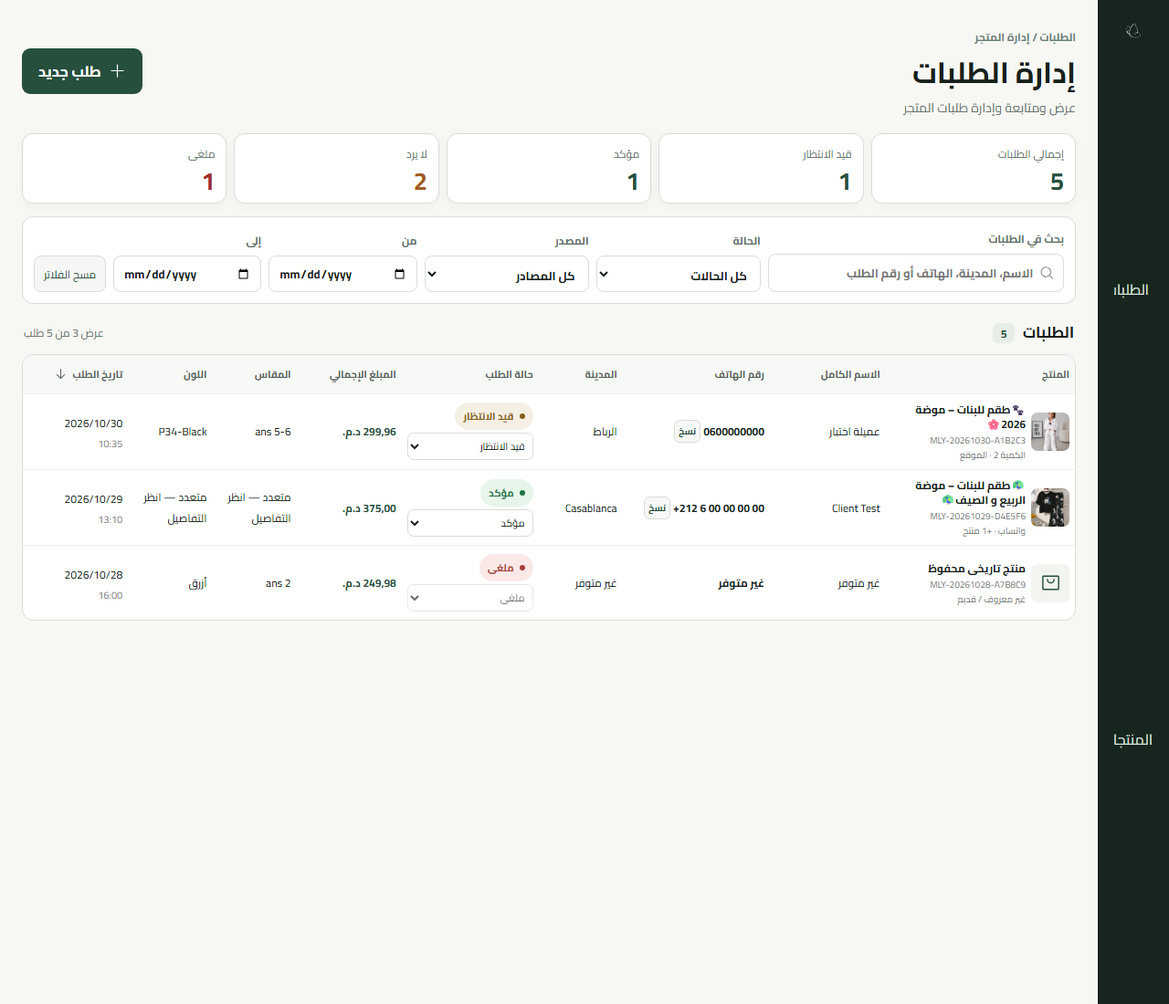
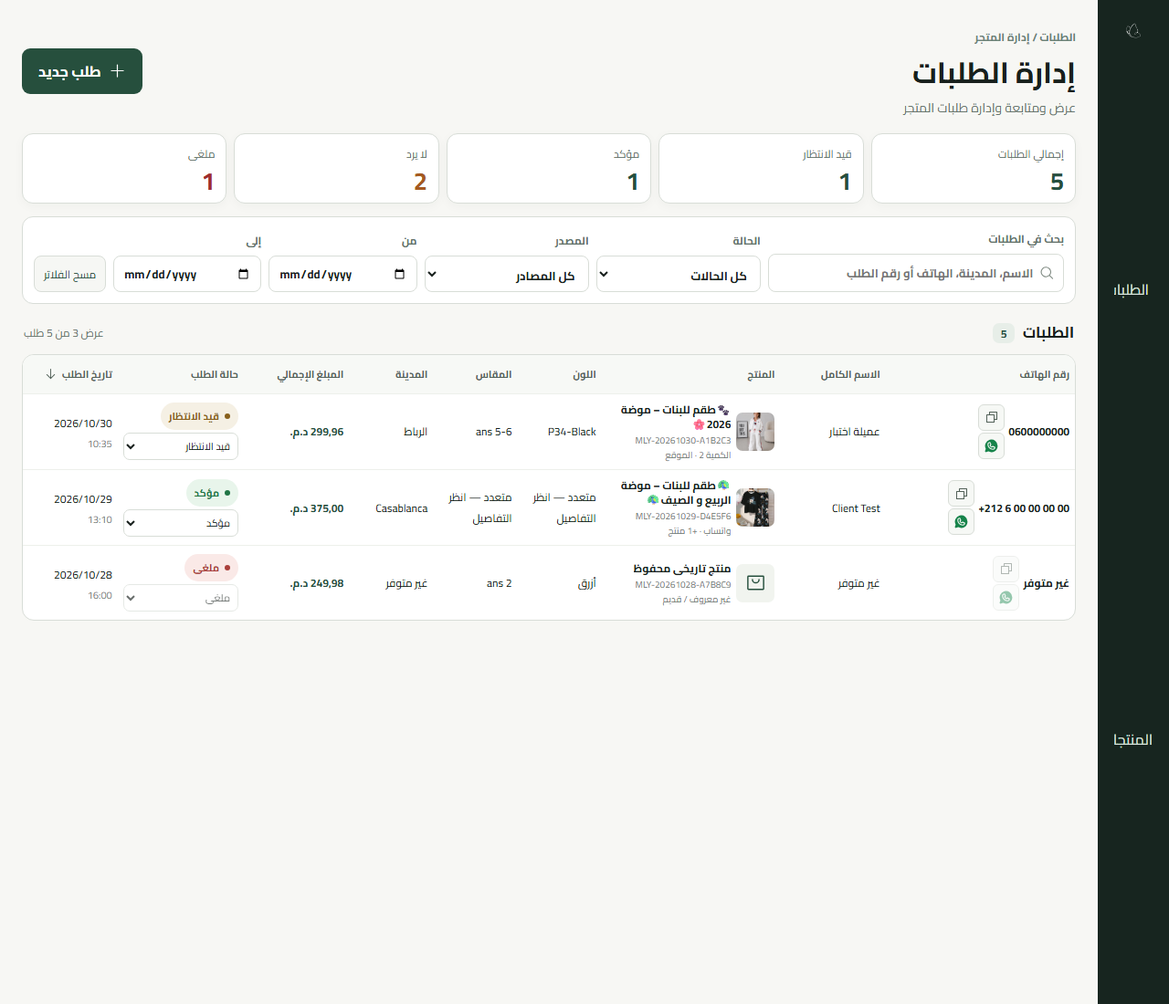
Refine Orders contact workflow and responsive information order

diff --git a/src/admin/OrdersDashboard.jsx b/src/admin/OrdersDashboard.jsx
@@ -1,5 +1,7 @@
 import { useCallback, useEffect, useRef, useState } from "react";
-import { ArrowDown, ArrowUp, MagnifyingGlass, Plus, ShoppingBag, X } from "@phosphor-icons/react";
+import { ArrowDown, ArrowUp, Copy, MagnifyingGlass, Plus, ShoppingBag, WhatsappLogo, X } from "@phosphor-icons/react";
+import storeData from "../../data/store.json";
+import { customerWhatsAppHref } from "./order-contact.js";
 import { ORDER_SOURCES, ORDER_STATUSES, ORDER_TRANSITIONS, customerField, itemSelection, lineTotal, orderListState, productName, selectionValue, sourceLabel, statusLabel } from "./order-view-model.js";
 
 const money = (value) => new Intl.NumberFormat("ar-MA", { style: "currency", currency: "MAD" }).format(Number(value || 0));
@@ -10,14 +12,24 @@ const formatDate = (value, formatter = dateTime) => value ? formatter.format(new
 
 function CopyPhoneButton({ phone }) {
   const [feedback, setFeedback] = useState("");
-  if (!phone || !String(phone).trim()) return null;
+  const available = Boolean(String(phone || "").trim());
   const copy = async (event) => {
     event.stopPropagation();
     try { await navigator.clipboard.writeText(String(phone)); setFeedback("تم النسخ"); }
     catch { setFeedback("تعذر النسخ"); }
     window.setTimeout(() => setFeedback(""), 2000);
   };
-  return <button type="button" className="owner-order-copy-phone" onClick={copy} aria-label="نسخ رقم الهاتف" title="نسخ رقم الهاتف">{feedback || "نسخ"}</button>;
+  return <><button type="button" className="owner-order-copy-phone" onClick={copy} disabled={!available} aria-label="نسخ رقم الهاتف" title="نسخ رقم الهاتف"><Copy size={16} aria-hidden="true" /></button>{feedback && <span className="owner-order-copy-feedback" role="status">{feedback}</span>}</>;
+}
+
+function PhoneContact({ order, publicProducts = [] }) {
+  const phone = order?.customer?.phone;
+  const href = customerWhatsAppHref(order, publicProducts, storeData.domain);
+  const openWhatsApp = (event) => {
+    event.stopPropagation();
+    if (href) window.open(href, "_blank", "noopener,noreferrer");
+  };
+  return <span className="owner-order-phone"><b dir="ltr" title={customerField(order, "phone")}>{customerField(order, "phone")}</b><span className="owner-order-contact-actions"><CopyPhoneButton phone={phone} /><button type="button" className="owner-order-whatsapp-phone" onClick={openWhatsApp} disabled={!href} aria-label="تأكيد الطلب مع العميل عبر واتساب" title={href ? "تأكيد الطلب مع العميل عبر واتساب" : "رقم الهاتف غير صالح لواتساب"}><WhatsappLogo size={17} weight="fill" aria-hidden="true" /></button></span></span>;
 }
 
 function OrderThumbnail({ src }) {
@@ -44,7 +56,7 @@ function OrderProductSummary({ order }) {
   return <div className="owner-order-product"><OrderThumbnail src={first?.thumbnailUrl} /><span className="owner-order-product-copy"><strong title={productName(first)}>{productName(first)}</strong><small dir="ltr">{order.order_number}</small><small>{first?.quantity > 1 ? `الكمية ${first.quantity} · ` : ""}{sourceLabel(order.source)}{order.items?.length > 1 ? ` · +${order.items.length - 1} منتج` : ""}</small></span></div>;
 }
 
-export function OrderDetail({ order, loading, error, onClose, onStatusChange, onRetrySheet, busy }) {
+export function OrderDetail({ order, loading, error, onClose, onStatusChange, onRetrySheet, busy, publicProducts = [] }) {
   const closeRef = useRef(null);
   const panelRef = useRef(null);
   useEffect(() => {
@@ -71,7 +83,7 @@ export function OrderDetail({ order, loading, error, onClose, onStatusChange, on
       {order && <div className="owner-order-drawer-body">
         <div className="owner-order-detail-top"><div><small>تاريخ الطلب</small><strong>{formatDate(order.created_at)}</strong></div><div><small>المصدر</small><strong>{sourceLabel(order.source)}</strong></div></div>
         <section className="owner-order-detail-section"><h3>الحالة</h3><div className="owner-order-detail-status"><StatusBadge status={order.status} /><StatusSelect order={order} busy={busy} onChange={onStatusChange} /></div></section>
-        <section className="owner-order-detail-section"><h3>العميل</h3><dl className="owner-order-detail-grid"><div><dt>الاسم الكامل</dt><dd>{customerField(order, "name")}</dd></div><div><dt>رقم الهاتف</dt><dd className="owner-order-phone"><b dir="ltr">{customerField(order, "phone")}</b><CopyPhoneButton phone={order.customer?.phone} /></dd></div><div><dt>المدينة</dt><dd>{customerField(order, "city")}</dd></div><div><dt>العنوان</dt><dd>{customerField(order, "address")}</dd></div></dl></section>
+        <section className="owner-order-detail-section"><h3>العميل</h3><dl className="owner-order-detail-grid"><div><dt>الاسم الكامل</dt><dd>{customerField(order, "name")}</dd></div><div><dt>رقم الهاتف</dt><dd><PhoneContact order={order} publicProducts={publicProducts} /></dd></div><div><dt>المدينة</dt><dd>{customerField(order, "city")}</dd></div><div><dt>العنوان</dt><dd>{customerField(order, "address")}</dd></div></dl></section>
         <section className="owner-order-detail-section"><h3>المنتجات ({order.items?.length || 0})</h3><div className="owner-order-detail-items">{(order.items || []).map((item, index) => <article key={index} className="owner-order-detail-item"><OrderThumbnail src={item.thumbnailUrl} /><div><strong>{productName(item)}</strong><small>المقاس: {selectionValue(item, "size") || "—"} · اللون: {selectionValue(item, "color") || "—"}</small><small>الكمية: {item.quantity} × {money(item.unitPriceMad)}</small></div><b>{money(lineTotal(item))}</b></article>)}</div>
           <div className="owner-order-totals"><div><span>المجموع الفرعي المحفوظ</span><strong>{money(order.subtotal_mad)}</strong></div><div className="final"><span>الإجمالي المحفوظ</span><strong>{money(order.total_mad)}</strong></div></div></section>
         {order.customer_note && <section className="owner-order-detail-section"><h3>ملاحظات الطلب</h3><p className="owner-order-note">{order.customer_note}</p></section>}
@@ -153,17 +165,20 @@ export function OrdersPanel({ data, reload, goTo, api }) {
       <button type="button" className="owner-order-clear" onClick={clearFilters}>مسح الفلاتر</button></div>
     <div className="owner-order-list-head"><strong>الطلبات <span>{filteredTotal.toLocaleString("ar-MA")}</span></strong><span>{loading ? "جارٍ التحديث…" : `عرض ${rows.length} من ${filteredTotal} طلب`}</span></div>
     {error && <div role="alert" className="owner-error">{error}</div>}
-    <div className="owner-orders-table" role="region" aria-label="قائمة الطلبات" tabIndex="0"><table><thead><tr><th>المنتج</th><th>الاسم الكامل</th><th>رقم الهاتف</th><th>المدينة</th><th>حالة الطلب</th><th>المبلغ الإجمالي</th><th>المقاس</th><th>اللون</th><th><button type="button" className="owner-order-sort" onClick={() => updateFilter("sort", filters.sort === "newest" ? "oldest" : "newest")} aria-label={`ترتيب حسب تاريخ الطلب: ${filters.sort === "newest" ? "الأحدث أولاً" : "الأقدم أولاً"}`}>تاريخ الطلب {filters.sort === "newest" ? <ArrowDown size={15} /> : <ArrowUp size={15} />}</button></th></tr></thead><tbody>{rows.map((order) => <tr key={order.id} tabIndex="0" aria-label={`تفاصيل الطلب ${order.order_number}`} onClick={() => openDetail(order.id)} onKeyDown={(event) => { if (event.target === event.currentTarget && ["Enter", " "].includes(event.key)) { event.preventDefault(); openDetail(order.id); } }}><td><OrderProductSummary order={order} /></td><td title={customerField(order, "name")}>{customerField(order, "name")}</td><td><div className="owner-order-phone" onClick={(event) => event.stopPropagation()}><b dir="ltr" title={customerField(order, "phone")}>{customerField(order, "phone")}</b><CopyPhoneButton phone={order.customer?.phone} /></div></td><td title={customerField(order, "city")}>{customerField(order, "city")}</td><td><div className="owner-order-status-cell" onClick={(event) => event.stopPropagation()}><StatusBadge status={order.status} /><StatusSelect order={order} busy={busyId === order.id} onChange={changeStatus} /></div></td><td className="owner-order-price">{money(order.total_mad)}</td><td title={itemSelection(order, "size")}>{itemSelection(order, "size")}</td><td title={itemSelection(order, "color")}>{itemSelection(order, "color")}</td><td><time dateTime={order.created_at}>{formatDate(order.created_at, dateOnly)}<small>{formatDate(order.created_at, timeOnly)}</small></time></td></tr>)}</tbody></table></div>
+    <div className="owner-orders-table" role="region" aria-label="قائمة الطلبات" tabIndex="0"><table><thead><tr><th>رقم الهاتف</th><th>الاسم الكامل</th><th>المنتج</th><th>اللون</th><th>المقاس</th><th>المدينة</th><th>المبلغ الإجمالي</th><th>حالة الطلب</th><th><button type="button" className="owner-order-sort" onClick={() => updateFilter("sort", filters.sort === "newest" ? "oldest" : "newest")} aria-label={`ترتيب حسب تاريخ الطلب: ${filters.sort === "newest" ? "الأحدث أولاً" : "الأقدم أولاً"}`}>تاريخ الطلب {filters.sort === "newest" ? <ArrowDown size={15} /> : <ArrowUp size={15} />}</button></th></tr></thead><tbody>{rows.map((order) => <tr key={order.id} tabIndex="0" aria-label={`تفاصيل الطلب ${order.order_number}`} onClick={() => openDetail(order.id)} onKeyDown={(event) => { if (event.target === event.currentTarget && ["Enter", " "].includes(event.key)) { event.preventDefault(); openDetail(order.id); } }}><td><span onClick={(event) => event.stopPropagation()}><PhoneContact order={order} publicProducts={data.publicProducts} /></span></td><td title={customerField(order, "name")}>{customerField(order, "name")}</td><td><OrderProductSummary order={order} /></td><td title={itemSelection(order, "color")}>{itemSelection(order, "color")}</td><td title={itemSelection(order, "size")}>{itemSelection(order, "size")}</td><td title={customerField(order, "city")}>{customerField(order, "city")}</td><td className="owner-order-price">{money(order.total_mad)}</td><td><div className="owner-order-status-cell" onClick={(event) => event.stopPropagation()}><StatusBadge status={order.status} /><StatusSelect order={order} busy={busyId === order.id} onChange={changeStatus} /></div></td><td><time dateTime={order.created_at}>{formatDate(order.created_at, dateOnly)}<small>{formatDate(order.created_at, timeOnly)}</small></time></td></tr>)}</tbody></table></div>
     <div className="owner-order-mobile-list">{rows.map((order) => <article key={order.id} className="owner-order-mobile-card">
+      <div className="owner-order-mobile-phone"><small>رقم الهاتف</small><PhoneContact order={order} publicProducts={data.publicProducts} /></div>
+      <div className="owner-order-mobile-name"><small>الاسم الكامل</small><strong>{customerField(order, "name")}</strong></div>
       <button type="button" className="owner-order-mobile-open" onClick={() => openDetail(order.id)} aria-label={`تفاصيل الطلب ${order.order_number}`}><OrderProductSummary order={order} /></button>
-      <div className="owner-order-mobile-priority"><StatusBadge status={order.status} /><strong>{money(order.total_mad)}</strong></div>
-      <div className="owner-order-mobile-customer"><span className="owner-order-mobile-field"><small>الاسم الكامل</small><strong>{customerField(order, "name")}</strong></span><span className="owner-order-mobile-field"><small>رقم الهاتف</small><span className="owner-order-phone"><b dir="ltr" title={customerField(order, "phone")}>{customerField(order, "phone")}</b><CopyPhoneButton phone={order.customer?.phone} /></span></span></div>
-      <div className="owner-order-mobile-delivery"><span className="owner-order-mobile-field"><small>المدينة</small><span>{customerField(order, "city")}</span></span><span className="owner-order-mobile-field"><small>المقاس</small><span>{itemSelection(order, "size")}</span></span><span className="owner-order-mobile-field"><small>اللون</small><span>{itemSelection(order, "color")}</span></span></div>
-      <div className="owner-order-mobile-footer"><time dateTime={order.created_at}>{formatDate(order.created_at, dateOnly)}<small>{formatDate(order.created_at, timeOnly)}</small></time><div className="owner-order-mobile-actions"><StatusSelect order={order} busy={busyId === order.id} onChange={changeStatus} /><button type="button" className="owner-order-mobile-details" onClick={() => openDetail(order.id)}>عرض التفاصيل</button></div></div>
+      <div className="owner-order-mobile-variants"><span className="owner-order-mobile-field"><small>اللون</small><span>{itemSelection(order, "color")}</span></span><span className="owner-order-mobile-field"><small>المقاس</small><span>{itemSelection(order, "size")}</span></span></div>
+      <div className="owner-order-mobile-city"><small>المدينة</small><span>{customerField(order, "city")}</span></div>
+      <div className="owner-order-mobile-price"><small>المبلغ الإجمالي</small><strong>{money(order.total_mad)}</strong></div>
+      <div className="owner-order-mobile-status"><StatusBadge status={order.status} /><StatusSelect order={order} busy={busyId === order.id} onChange={changeStatus} /></div>
+      <div className="owner-order-mobile-footer"><time dateTime={order.created_at}>{formatDate(order.created_at, dateOnly)}<small>{formatDate(order.created_at, timeOnly)}</small></time><button type="button" className="owner-order-mobile-details" onClick={() => openDetail(order.id)}>عرض التفاصيل</button></div>
     </article>)}</div>
     {!rows.length && !loading && <div className="owner-order-empty">لا توجد طلبات تطابق البحث أو الفلاتر الحالية.</div>}
     {loading && <p className="owner-order-loading" role="status">جارٍ تحميل الطلبات…</p>}
     {filteredTotal > pageSize && <nav className="owner-pagination" aria-label="صفحات الطلبات"><button type="button" disabled={page <= 1 || loading} onClick={() => setPage(page - 1)}>السابق</button><span>الصفحة {page} من {Math.ceil(filteredTotal / pageSize)}</span><button type="button" disabled={page >= Math.ceil(filteredTotal / pageSize) || loading} onClick={() => setPage(page + 1)}>التالي</button></nav>}
-    {selectedId && <OrderDetail order={detail || selectedSummary} loading={detailLoading} error={detailError} onClose={closeDetail} onStatusChange={changeStatus} onRetrySheet={retrySheet} busy={busyId === selectedId} />}
+    {selectedId && <OrderDetail order={detail || selectedSummary} loading={detailLoading} error={detailError} onClose={closeDetail} onStatusChange={changeStatus} onRetrySheet={retrySheet} busy={busyId === selectedId} publicProducts={data.publicProducts} />}
   </section>;
 }

diff --git a/src/admin/admin.css b/src/admin/admin.css
@@ -263,7 +263,7 @@
 .owner-orders-table { overflow-x: auto; border: 1px solid var(--owner-line); border-radius: 13px; background: white; }
 .owner-orders-table table { width: 100%; border-collapse: collapse; table-layout: fixed; }
 .owner-orders-table th { height: 42px; padding: 8px 6px; background: #f7f9f6; color: #536259; font-size: 11px; font-weight: 700; text-align: right; white-space: nowrap; }
-.owner-orders-table th:nth-child(1) { width: 18%; }.owner-orders-table th:nth-child(2) { width: 11%; }.owner-orders-table th:nth-child(3) { width: 14%; }.owner-orders-table th:nth-child(4) { width: 8%; }.owner-orders-table th:nth-child(5) { width: 13%; }.owner-orders-table th:nth-child(6) { width: 10%; }.owner-orders-table th:nth-child(7) { width: 8%; }.owner-orders-table th:nth-child(8) { width: 8%; }.owner-orders-table th:nth-child(9) { width: 10%; }
+.owner-orders-table th:nth-child(1) { width: 18%; }.owner-orders-table th:nth-child(2) { width: 10%; }.owner-orders-table th:nth-child(3) { width: 17%; }.owner-orders-table th:nth-child(4) { width: 8%; }.owner-orders-table th:nth-child(5) { width: 8%; }.owner-orders-table th:nth-child(6) { width: 8%; }.owner-orders-table th:nth-child(7) { width: 10%; }.owner-orders-table th:nth-child(8) { width: 12%; }.owner-orders-table th:nth-child(9) { width: 9%; }
 .owner-orders-table td { padding: 9px 6px; border-top: 1px solid #edf0eb; color: var(--owner-ink); font-size: 12px; text-align: right; vertical-align: middle; overflow-wrap: anywhere; }
 .owner-orders-table tbody tr { cursor: pointer; transition: background .15s ease; }.owner-orders-table tbody tr:hover { background: #f8faf7; }.owner-orders-table tbody tr:focus-visible { outline: 3px solid #cf725f; outline-offset: -3px; }
 .owner-orders-table small { display: block; margin-top: 3px; color: #7b877e; font-size: 11px; line-height: 1.5; }
@@ -272,10 +272,17 @@
 .owner-order-detail-item img, .owner-order-detail-item .owner-order-image-empty { width: 52px; height: 52px; flex: none; border-radius: 8px; object-fit: cover; background: #f1f4ef; }
 .owner-order-product-copy { min-width: 0; }.owner-order-product-copy strong { display: -webkit-box; overflow: hidden; -webkit-box-orient: vertical; -webkit-line-clamp: 2; font-size: 12px; line-height: 1.35; }.owner-order-product-copy small { display: block; color: #77847a; font-size: 10px; line-height: 1.3; }
 .owner-order-product-copy small[dir="ltr"] { text-align: right; direction: ltr; unicode-bidi: isolate; }
-.owner-order-phone { display: inline-flex; align-items: center; gap: 3px; max-width: 100%; min-width: 0; white-space: nowrap; }
+.owner-order-phone { display: inline-flex; align-items: center; gap: 4px; max-width: 100%; min-width: 0; white-space: nowrap; }
 .owner-order-phone b[dir="ltr"] { min-width: 0; overflow: hidden; direction: ltr; unicode-bidi: isolate; font-weight: 600; text-overflow: ellipsis; white-space: nowrap; }
-.owner-app .owner-order-copy-phone { width: auto; min-width: 25px; min-height: 25px; flex: none; padding: 2px 4px; border: 1px solid var(--owner-line); border-radius: 6px; background: #f6f8f5; color: var(--owner-green); font: inherit; font-size: 10px; font-weight: 700; cursor: pointer; }
+.owner-order-contact-actions { display: grid; gap: 2px; flex: none; }
+.owner-app .owner-order-contact-actions button { width: 29px; height: 29px; min-width: 29px; min-height: 29px; display: grid; place-items: center; padding: 0; border: 1px solid var(--owner-line); border-radius: 6px; background: #f6f8f5; font: inherit; cursor: pointer; }
+.owner-app .owner-order-copy-phone { color: #526158; }
 .owner-app .owner-order-copy-phone:hover { background: #e7efe8; }
+.owner-app .owner-order-whatsapp-phone { color: #16834a; }
+.owner-app .owner-order-whatsapp-phone:hover { background: #e5f6eb; border-color: #a9d8bb; }
+.owner-app .owner-order-contact-actions button:disabled { opacity: .45; cursor: not-allowed; }
+.owner-order-copy-feedback { position: fixed; z-index: 220; bottom: 20px; left: 20px; padding: 7px 11px; border-radius: 7px; background: #264f3d; color: white; box-shadow: 0 5px 18px #17251f35; font-size: 12px; }
+@media (pointer: coarse) { .owner-app .owner-order-contact-actions button { width: 44px; height: 44px; min-width: 44px; min-height: 44px; } }
 .owner-order-mobile-customer { display: flex; justify-content: space-between; gap: 8px; margin-top: 10px; font-size: 12px; }
 .owner-order-mobile-customer strong { font-size: 13px; }
 .owner-order-mobile-contact { padding: 0 14px 10px; font-size: 12px; }
@@ -324,18 +331,20 @@
 }
 @media (max-width: 800px) { .owner-app > main.owner-orders-main { padding: 16px; } }
 
-/* Final mobile information hierarchy: product, status/total, customer, delivery, then date/actions. */
-.owner-order-mobile-priority { display: flex; align-items: center; justify-content: space-between; gap: 10px; padding: 0 14px 10px; }
-.owner-order-mobile-priority > strong { color: var(--owner-green); font-size: 15px; font-weight: 700; white-space: nowrap; }
-.owner-order-mobile-customer { display: grid; grid-template-columns: repeat(2, minmax(0, 1fr)); gap: 10px; margin-top: 0; padding: 9px 14px; border-top: 1px solid #edf0eb; }
+/* Final mobile information hierarchy: phone, name, product, variants, city, total, status, date. */
+.owner-order-mobile-phone, .owner-order-mobile-name, .owner-order-mobile-city, .owner-order-mobile-price { display: flex; align-items: center; justify-content: space-between; gap: 8px; min-width: 0; padding: 8px 14px; border-bottom: 1px solid #edf0eb; font-size: 12px; }
+.owner-order-mobile-phone { background: #f9faf8; }
+.owner-order-mobile-phone > small, .owner-order-mobile-name > small, .owner-order-mobile-city > small, .owner-order-mobile-price > small { flex: none; color: #718075; font-size: 11px; }
+.owner-order-mobile-phone .owner-order-phone { justify-content: flex-end; }
+.owner-order-mobile-name strong { min-width: 0; font-size: 13px; font-weight: 700; text-align: left; overflow-wrap: anywhere; }
+.owner-app .owner-order-mobile-open { padding: 10px 14px; }
+.owner-order-mobile-variants { display: grid; grid-template-columns: repeat(2, minmax(0, 1fr)); gap: 9px; padding: 8px 14px; border-top: 1px solid #edf0eb; }
 .owner-order-mobile-field { display: grid; align-content: start; gap: 3px; min-width: 0; color: var(--owner-ink); font-size: 12px; line-height: 1.4; overflow-wrap: anywhere; }
 .owner-order-mobile-field small { color: #718075; font-size: 11px; }
-.owner-order-mobile-field strong { font-size: 13px; font-weight: 700; }
-.owner-order-mobile-delivery { display: grid; grid-template-columns: repeat(3, minmax(0, 1fr)); gap: 9px; padding: 9px 14px; border-top: 1px solid #edf0eb; }
-.owner-order-mobile-footer { display: grid; gap: 8px; padding: 9px 14px 11px; border-top: 1px solid #edf0eb; }
-.owner-order-mobile-footer time { display: flex; justify-content: space-between; gap: 8px; color: #64726a; font-size: 11px; }
+.owner-order-mobile-city > span { min-width: 0; overflow-wrap: anywhere; }
+.owner-order-mobile-price strong { color: var(--owner-green); font-size: 15px; font-weight: 700; white-space: nowrap; }
+.owner-order-mobile-footer { display: grid; grid-template-columns: 1fr auto; align-items: center; gap: 8px; padding: 9px 14px 11px; border-top: 1px solid #edf0eb; }
+.owner-order-mobile-footer time { display: grid; gap: 2px; color: #64726a; font-size: 11px; }
 .owner-order-mobile-footer time small { color: #7b877e; font-size: 11px; }
-.owner-order-mobile-actions { display: flex; align-items: center; justify-content: space-between; gap: 8px; }
-.owner-order-mobile-actions .owner-order-status-select { width: min(145px, 48%); }
 .owner-app .owner-order-mobile-details { width: auto; min-height: 29px; padding: 4px 9px; border: 1px solid var(--owner-line); border-radius: 7px; background: #f6f8f5; color: var(--owner-green); font: inherit; font-size: 11px; font-weight: 700; cursor: pointer; }
 .owner-app .owner-order-mobile-details:hover { background: #e7efe8; }

diff --git a/src/admin/order-contact.js b/src/admin/order-contact.js
@@ -1,0 +1,55 @@
+import { publicProductUrl } from "../whatsapp.js";
+import { selectionValue } from "./order-view-model.js";
+
+export function normalizeCustomerWhatsAppPhone(value) {
+  const input = String(value || "").trim();
+  if (!input || !/^\+?[\d\s().-]+$/.test(input)) return null;
+  const compact = input.replace(/[\s().-]/g, "");
+  const validInternational = (digits) => /^[1-9]\d{7,14}$/.test(digits) ? digits : null;
+  if (compact.startsWith("+")) return validInternational(compact.slice(1));
+  if (compact.startsWith("00")) return validInternational(compact.slice(2));
+  if (/^0[5-7]\d{8}$/.test(compact)) return `212${compact.slice(1)}`;
+  if (/^212[5-7]\d{8}$/.test(compact)) return compact;
+  return null;
+}
+
+export function orderConfirmationMessage(order, publicProducts = [], storeDomain) {
+  const name = String(order?.customer?.name || "").trim();
+  const number = String(order?.order_number || "").trim();
+  const published = new Map(publicProducts.filter((product) => product.status === "published").map((product) => [product.id, product]));
+  const items = (order?.items || []).map((item, index) => {
+    const savedName = String(item?.productSnapshot?.originalName || item?.productSnapshot?.displayName || "").trim();
+    const color = selectionValue(item, "color");
+    const size = selectionValue(item, "size");
+    const quantity = Number(item?.quantity);
+    const product = published.get(item?.productSnapshot?.id);
+    const url = product ? publicProductUrl(product, storeDomain) : null;
+    return [
+      ...(savedName ? [`${order.items.length > 1 ? `${index + 1}. ` : ""}المنتج: ${savedName}`] : []),
+      ...(color ? [`اللون: ${color}`] : []),
+      ...(size ? [`المقاس: ${size}`] : []),
+      ...(Number.isSafeInteger(quantity) && quantity > 0 ? [`الكمية: ${quantity}`] : []),
+      ...(url ? [`رابط المنتج: ${url}`] : []),
+    ].join("\n");
+  }).filter(Boolean);
+  return [
+    `السلام عليكم${name ? ` ${name}` : ""}،`,
+    "",
+    "معكم فريق MELYNE House.",
+    "",
+    ...(number ? [`نتواصل معكم لتأكيد طلبكم رقم ${number}.`, ""] : []),
+    ...items.flatMap((item, index) => index ? ["", item] : [item]),
+    ...(items.length ? [""] : []),
+    "نود التأكد من معلومات طلبكم قبل متابعة تجهيزه.",
+    "",
+    "هل يمكنكم تأكيد الطلب من فضلكم؟",
+    "",
+    "شكراً لثقتكم في MELYNE House.",
+  ].join("\n");
+}
+
+export function customerWhatsAppHref(order, publicProducts, storeDomain) {
+  const phone = normalizeCustomerWhatsAppPhone(order?.customer?.phone);
+  if (!phone) return null;
+  return `https://wa.me/${phone}?text=${encodeURIComponent(orderConfirmationMessage(order, publicProducts, storeDomain))}`;
+}

diff --git a/docs/orders-compact-layout.md b/docs/orders-compact-layout.md
@@ -1,35 +1,37 @@
-# Orders compact layout — local validation (2026-10-31)
+# Orders contact and layout validation — 2026-10-31
 
-## Changes
+## Implementation
 
-- The nine-column RTL table now runs right-to-left as product, full name, phone, city, status, saved MAD total, size, color, order date. The same compact percentage columns, 42px thumbnails, two-line product names, and status control remain. Full product/option/phone text remains available through titles and the protected order-detail drawer; the phone copy action remains.
-- The existing owner CSS grid already uses `--owner-sidebar-width` (256px expanded, 78px collapsed). The Orders main area now has focused 24px padding and `min-width: 0`; its width follows that grid without a new sidebar state or reload.
-- The Orders page is a CSS inline-size container. When its content width is at most 1050px, it shows the existing full-information cards instead of forcing an unreadable table. Cards use two columns when the content width is at least 760px. The 390px layout remains one column. Heading, summary, filter, and list gaps were reduced without changing order operations.
-- No API, database, customer data, order status, or inventory code changed. Existing unrelated favicon edits remain untouched.
-- The card information order is now product identification → status and saved total → customer name and phone → city, size and color → date/time and actions. The product header and explicit bottom action both open the existing detail drawer. Each card contains exactly one status selector; the status badge is display-only.
+- Desktop RTL table order: phone, full name, product, color, size, city, saved MAD total, status, date. The phone is the rightmost column. Copy and WhatsApp icons are vertically stacked beside its LTR number. The 42px product image, order number, extra-item count, date/time, status badge and selector remain.
+- Mobile card order: phone/actions, name, product, color/size, city, price, status, date/time and detail action. One status selector remains per card. The existing order-detail drawer shows the full item history.
+- Copy writes the saved number to the clipboard and gives Arabic success/error feedback. An invalid or missing number disables WhatsApp. A valid number opens a new `wa.me` tab with `noopener,noreferrer`; the dashboard stays open and no message is sent automatically.
+- The Arabic draft uses saved customer name, order number and every historical item snapshot's name, color, size and quantity. It includes a product URL only when a published product has a verified HTTPS URL under `melynehouse.com/products/`. It never inserts a localhost URL. The storefront support action remains separate.
+- No API, database, order, inventory, status-transition or Google Sheets code changed. Existing unrelated favicon edits were left untouched.
 
 ## Browser measurements
 
-Measured in signed-in headless Chrome on the local running app. `table scroll` is the Orders table region's `scrollWidth/clientWidth`; hidden tables use cards. The document had no horizontal overflow at any measured width.
+The signed-in local dashboard was inspected in headless Chrome. The [screenshots](qa-orders/) were captured from the real Orders component with isolated sample records so private customer data is absent. The table region had no horizontal overflow in every table state. The document had no horizontal overflow at any measured width.
 
-| Viewport | Sidebar | Content width | Presentation | Table scroll |
-| --- | --- | ---: | --- | --- |
-| 1440 | Expanded (256px) | 1136px | Nine-column table | 1134 / 1134px — none |
-| 1440 | Collapsed (78px) | 1314px | Nine-column table | 1312 / 1312px — none |
-| 1280 | Expanded (256px) | 976px | Two-column cards | Not applicable |
-| 1280 | Collapsed (78px) | 1154px | Nine-column table | 1152 / 1152px — none |
-| 1024 | Expanded (256px) | 720px | One-column cards | Not applicable |
-| 1024 | Collapsed (78px) | 898px | Two-column cards | Not applicable |
+| Viewport | Sidebar | Orders content | Presentation | Table scroll/client |
+| --- | --- | ---: | --- | ---: |
+| 1440 | Expanded | 1136px | Nine-column table | 1134 / 1134px |
+| 1440 | Collapsed | 1314px | Nine-column table | 1312 / 1312px |
+| 1280 | Expanded | 976px | Two-column cards | Not applicable |
+| 1280 | Collapsed | 1154px | Nine-column table | 1152 / 1152px |
+| 1024 | Expanded | 705px | One-column cards | Not applicable |
+| 1024 | Collapsed | 883px | Two-column cards | Not applicable |
 | 768 | Mobile drawer | 736px | One-column cards | Not applicable |
 | 390 | Mobile drawer | 358px | One-column cards | Not applicable |
 | 360 | Mobile drawer | 328px | One-column cards | Not applicable |
 
-The 1280px expanded state deliberately uses cards: a 976px content area could not hold nine readable columns and a status selector without crowding. Collapsing the sidebar promotes it back to the full table automatically.
+The 1280px expanded sidebar leaves 976px for content; the existing responsive fallback uses cards there to keep all information readable. Collapsing the sidebar restores the table automatically.
 
-## Visual and functional checks
+## Interaction and automated checks
 
-These [nine screenshots](qa-orders/) were captured at the widths/states above using the real Orders component and styling with isolated sample records, not real customer details: `orders-compact-1440-expanded.png`, `orders-compact-1440-collapsed.png`, `orders-compact-1280-expanded.png`, `orders-compact-1280-collapsed.png`, `orders-compact-1024-expanded.png`, `orders-compact-1024-collapsed.png`, `orders-compact-768-expanded.png`, `orders-compact-390-expanded.png`, and `orders-compact-360-expanded.png`. They show the updated RTL column order, aligned headers, visible status/price, no clipped thumbnails, and the new card hierarchy. The 390px and 360px screenshots use Chrome device emulation rather than a cropped 504px CLI viewport.
+- Signed-in browser: all nine headers in exact order; no runtime errors; mobile card sections in exact order; one status selector per card; order-detail drawer opens and closes.
+- Signed-in browser with `window.open` and clipboard stubbed: Copy matched the actual saved number and displayed `تم النسخ`; WhatsApp opened a `wa.me` confirmation draft in a safe new tab with no localhost link; neither action opened order details. No customer phone or message content was logged or sent.
+- `tests/order-contact.test.mjs`: Moroccan local/international and valid international normalization, ambiguous/invalid numbers, single and multiple historical items, encoded Arabic message, verified product links, retired product link omission, and localhost omission.
+- `npm run check`: passed catalog validation (34 products, 468 variants), 12 admin tests, 27 storefront/owner tests, 4 Sites tests, and production build. Vite emitted its existing non-failing large-chunk advisory.
+- `npm run test:order-management:postgres`: 2 isolated PostgreSQL tests passed, including protected order details and safe manual order reservation. No live order was modified during browser QA.
 
-The signed-in local app was also measured before and after clicking the existing sidebar toggle, without reload. All nine table headers appeared in the exact requested order; at 1440px and 1280px collapsed the table region's scroll width equaled its client width. The page rendered with no runtime errors, each card had one status selector, and a mobile order-detail drawer opened and closed successfully. The server-side Orders search, filters, pagination, and status handling were not changed. No order mutation was performed in browser QA.
-
-`npm run check`: passed catalog validation (34 products, 468 variants, 207 original images), all admin/storefront/Orders/Sites tests, and the production build. Vite still prints its non-failing large-chunk advisory. `npm run test:order-management:postgres`: passed both isolated PostgreSQL tests, including safe order handling and protected order details.
+Screenshots: `qa-orders/orders-compact-{1440,1280,1024}-{expanded,collapsed}.png` and `qa-orders/orders-compact-{768,390,360}-expanded.png`.

diff --git a/AGENTS.md b/AGENTS.md
@@ -18,4 +18,4 @@ Owner lifecycle preference: retiring an obsolete size/color combination must pre
 
 Owner navigation preference: Orders and Products are expandable Arabic RTL sections with two separate sibling controls per row. The icon/label navigates to the section's All page; the left chevron only toggles its child links. In icon-only desktop mode hide chevrons and child lists but keep the parent icons functional. Do not make Customers, Payments, or Invoices appear operational until real backend workflows exist.
 
-Owner Orders design preference: use a compact Arabic RTL management page in MELYNE's dark green and cream styling. The desktop table columns run right-to-left as product, customer full name, customer phone, delivery city, status, saved MAD total, size, color, and order date. At 1440px, fit all nine columns without horizontal scrolling in both sidebar states; redistribute width as the sidebar collapses. Switch to complete order cards when nine readable columns cannot fit, including tablet and mobile. Mobile card hierarchy is product identification, then status and total, then customer name and phone, then city and variants, then date and actions. Keep status choices in the fixed Pending, No Response, Confirmed, Preparing, Shipped, Delivered, Cancelled order. Show full historical order details in a drawer, use real database counts and filters, and never add a delete-order or fake delivery action.
+Owner Orders design preference: use a compact Arabic RTL management page in MELYNE's dark green and cream styling. The desktop table columns run right-to-left as phone, customer full name, product, color, size, city, saved MAD total, status, and order date. Keep Copy above WhatsApp in a vertical action group beside the LTR phone number. At 1440px, fit all nine columns without horizontal scrolling in both sidebar states; redistribute width as the sidebar collapses. Switch to complete order cards when nine readable columns cannot fit, including tablet and mobile. Mobile card hierarchy is phone and contact actions, customer name, product, color and size, city, price, status, then date and actions. WhatsApp confirmation drafts use saved historical order items and verified public product links; they open only on an explicit owner click. Keep status choices in the fixed Pending, No Response, Confirmed, Preparing, Shipped, Delivered, Cancelled order. Show full historical order details in a drawer, use real database counts and filters, and never add a delete-order or fake delivery action.
